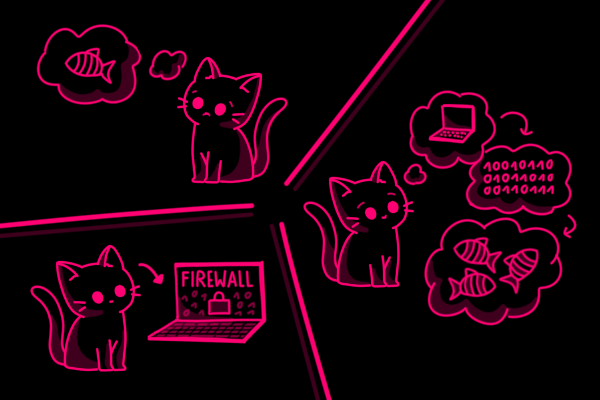
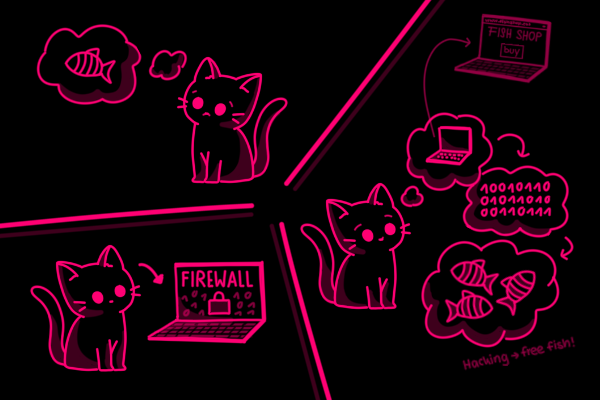
updated tutorial and finished story when completing all levels

Changed region(s): [[0.48, 0.03, 0.96, 0.93]]

diff --git a/breakout_file/Story.java b/breakout_file/Story.java
@@ -6,21 +6,18 @@ import greenfoot.*;  // (World, Actor, GreenfootImage, Greenfoot and MouseInfo)
  * @author (your name) 
  * @version (a version number or a date)
  */
-public class Story extends World
-{
-
-    /**
-     * Constructor for objects of class Story.
-     * 
-     */
+public class Story extends World{
+    public static Story story;
     
     private boolean key_down = false;
     private int stat = 0;
+    public int story_stat = 0;
     
     public Story()
     {    
         // Create a new world with 600x400 cells with a cell size of 1x1 pixels.
         super(600, 400, 1); 
+        story = this;
         showText("Press space to start!", 110, 375);
         Greenfoot.setSpeed(50);
         SoundManager.playMusic("menu_music"); 
@@ -30,16 +27,36 @@ public class Story extends World
         
        if(Greenfoot.isKeyDown("space")) key_down = true; //damit erst nach loslassen, sonst in menü gleich wieder space gedrückt --> startet neues game
         if(key_down && !Greenfoot.isKeyDown("space")){
-            if(stat<6){
-                stat++;
-                showText("", 110, 375);
-                showText("Press space to continue!", 120, 385);
-                if(stat>1) showText("", 120, 385); //GEHT NOCH NICHT !!!!!!!!!!!!!!!!!!!!!!!!!!!!!!!!!!!
-                this.setBackground("Story_" + stat + ".png");
-            } else {
-                Greenfoot.setWorld(new Menu(0));
+            if(story_stat == 0){
+                if(stat<6){
+                    stat++;
+                    showText("", 110, 375);
+                    showText("Press space to continue!", 120, 385);
+                    if(stat>1) showText("", 120, 385); //GEHT NOCH NICHT !!!!!!!!!!!!!!!!!!!!!!!!!!!!!!!!!!!
+                    this.setBackground("Story_" + stat + ".png");
+                } else {
+                    story_stat = 1;
+                    stat++;
+                    Greenfoot.setWorld(new Menu(0));
+                    
+                    this.setBackground("Story_" + stat + ".png");
+                    showText("Press space to continue!", 120, 385);
+                }
+            }else{
+                if(stat<8){
+                    stat++;
+                    if(stat>7){
+                        showText("", 120, 385);
+                        showText("Congrats! Press space to continue playing :D", 215, 385);
+                    }
+                    this.setBackground("Story_" + stat + ".png");
+                } else {
+                    Greenfoot.setWorld(Menu.menu);
+                    story_stat = 2;
+                }
             }
             key_down = false;
         }
+            
     }
 }

diff --git a/breakout_file/Spielfeld.java b/breakout_file/Spielfeld.java
@@ -24,10 +24,10 @@ public class Spielfeld extends World
                                 1, 1, 1, 1, 1, 1, 1, 0, 1, 0, 1, 1, 1, 1, 1, 1,
                                 1, 1, 1, 1, 1, 1, 1, 1, 0, 1, 1, 1, 1, 1, 1, 1}; 
     
-    private int[] Level_1 = {0, 0, 0, 0, 0, 0, 0, 0, 0, 0, 0, 0, 0, 0, 1, 0,
+    private int[] Level_1 = {0, 0, 0, 0, 0, 0, 0, 0, 0, 0, 0, 0, 0, 0, 4, 0,
                              0, 0, 0, 0, 0, 0, 0, 0, 0, 0, 0, 0, 0, 0, 0, 0,
                              0, 0, 0, 0, 0, 0, 0, 0, 0, 0, 0, 0, 0, 0, 0, 0,
-                             0, 0, 0, 0, 0, 0, 0, 0, 0, 0, 0, 0, 0, 0, 0, 0,}; 
+                             0, 0, 0, 0, 0, 1, 1, 1, 1, 1, 1, 0, 0, 0, 0, 0,}; 
     private int[] Level_2 = {0, 0, 0, 0, 0, 0, 0, 0, 0, 0, 0, 0, 0, 0, 1, 0,
                              0, 0, 0, 0, 0, 0, 0, 0, 0, 0, 0, 0, 0, 0, 0, 0,
                              0, 0, 0, 0, 0, 0, 0, 0, 0, 0, 0, 0, 0, 0, 0, 0,
@@ -76,7 +76,6 @@ public class Spielfeld extends World
     public int score = 0;
     public int game_stat = 0; //0-> is running, 1-> lost, 2->won  
     private boolean key_down = false; 
-    private int sound_delay = 0;
     
     public Paddle paddle;
     
@@ -105,9 +104,7 @@ public class Spielfeld extends World
         }else{
             show_timer = false;
         }
-        
-        if(sound_delay > 0) sound_delay--;
-        
+
         updateText();
         
     }

diff --git a/breakout_file/notes.java b/breakout_file/notes.java
@@ -1,9 +1,4 @@
-/* 
- * 
- * 
- * 
- * 
- * //NOTES//-------------------------
+/* //NOTES//-------------------------
  * - Wenn neue Level hinzufügen ändern:
  *     Menu: LevelLocks, Spielfeld: Level_list, neues Level array
  * - Press 'u' in Menu to unlock all Levels
@@ -12,25 +7,26 @@
  * 
  * 
  * //TODO//--------------------------
- * - !!CODE FÜR WARTEN NACH KLICKEN IN MENÜ ANDERS MACHEN!!! 
  * - better sounds & lautstärke anpassen...
- * - Music
  * - Story fertig
  * - Tutorial besser
  * - Balls left anzeige anders
- * - in Menü taste drücken können damit alle Level unlocked werden
+ * - Level designen
+ * 
  * 
  * done:
  * - neue Graphics
  * - Ball Paddle Reflektion besser
- * - Sounds and 
+ * - Sounds and Music
+ * - in Menü taste drücken können damit alle Level unlocked werden
+ * - !!CODE FÜR WARTEN NACH KLICKEN IN MENÜ ANDERS MACHEN!!! 
  * 
  * //BUGs//-------------------------
- * - level 2 done --> unlock level three; but when level one again done level three again locked
  * - sometimes ball gets after spawning stuck in the top border
  * 
- *fixed BUGs: 
- *- Level unlock, when second level beated it is unlocked again --> fixed
+ * fixed BUGs: 
+ * - Level unlock, when second level beated it is unlocked again --> fixed
+ * - level 2 done --> unlock level three; but when level one again done level three again locked
  *
  * Ideas:
  * - Hight score

diff --git a/breakout_file/Menu.java b/breakout_file/Menu.java
@@ -14,8 +14,7 @@ public class Menu extends World {
     private int maxLevel = 4;
     //Levels: test_level, Level_1, Level_2
     public static int max_unlocked_level = 1;
-    
-    private int sound_delay = 0;
+
     private boolean right_pressed = false;
     private boolean left_pressed = false;
     private boolean space_pressed = false;
@@ -33,11 +32,13 @@ public class Menu extends World {
         
         showText("Level:", 300, 185);
         showText("<               >", 300, 211);
+        
         SoundManager.playMusic("menu_music");
+        
     }
     
     public void act(){
-        if(sound_delay > 0) sound_delay--;
+        if(max_unlocked_level == maxLevel && Story.story.story_stat == 1) Greenfoot.setWorld(Story.story); //if all levels completed show end of story
         
         if(Greenfoot.isKeyDown("right")){
             if(!right_pressed){
